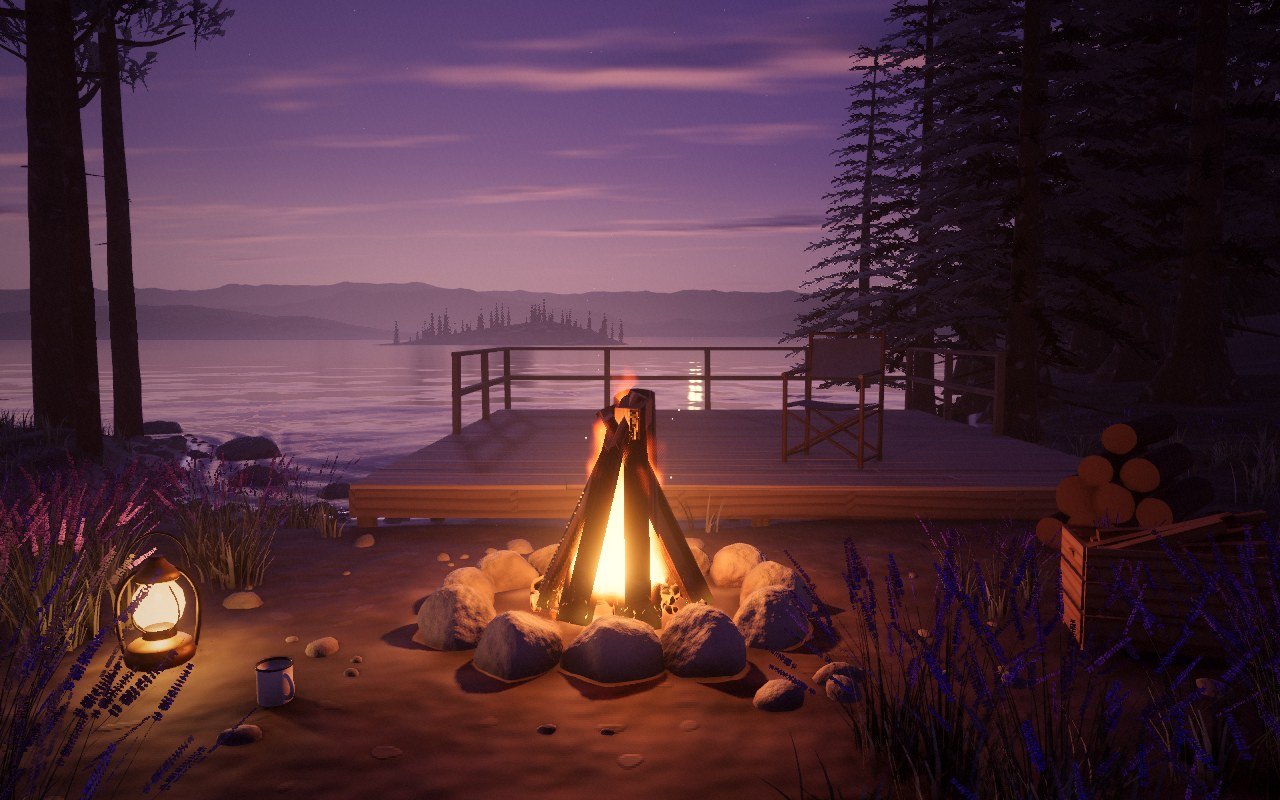
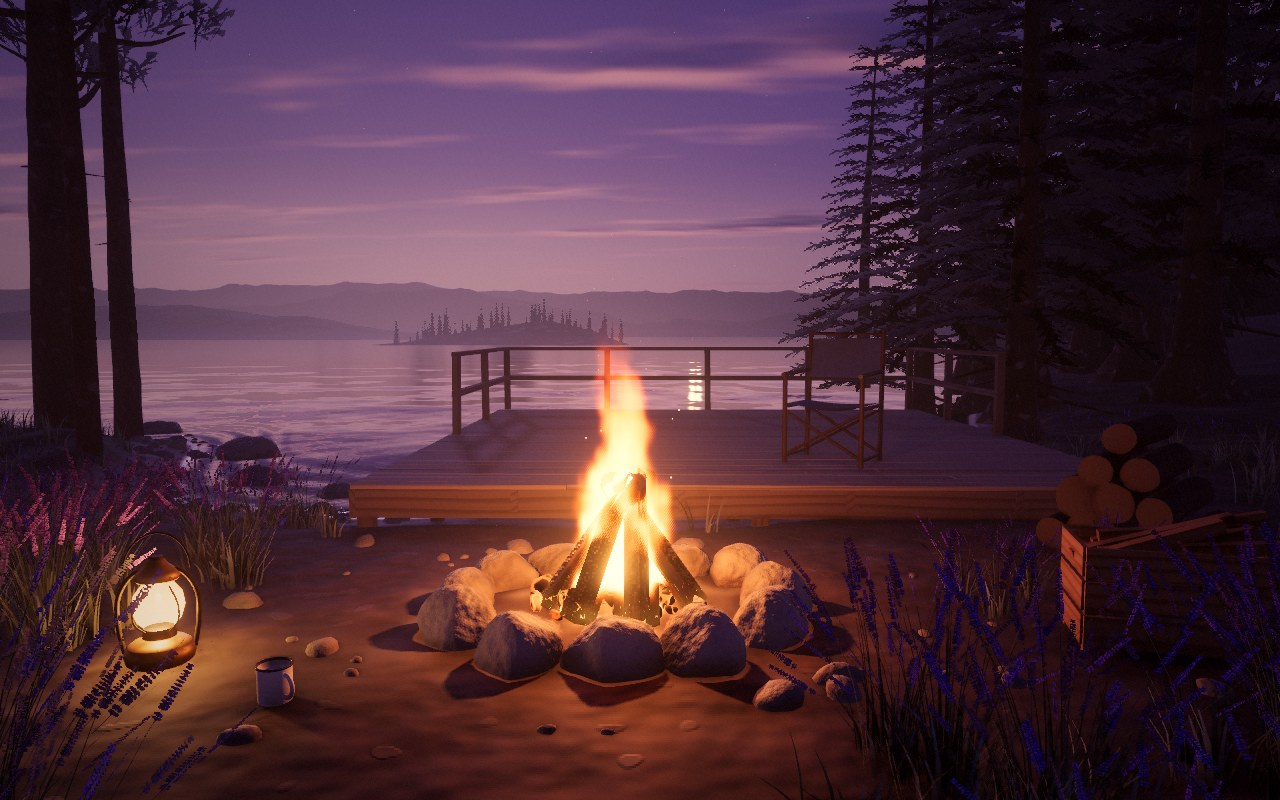
Let the campfire's flames rise above a low teepee
The teepee stood about a metre tall and hid the flame inside it, so the
fire read as a glowing tent. The logs now cross at half a metre and the
flame volume is taller, so tongues rise well above the wood as on the
card poster. The key light sits lower to match, and the stacked firewood
is a greyer, less orange timber.

Claude-Session: https://claude.ai/code/session_01VGKbtA9UtDn2W8JCtvG1sG

diff --git a/components/immersiveWorlds/nightFires/coastHearth.ts b/components/immersiveWorlds/nightFires/coastHearth.ts
@@ -114,17 +114,17 @@ float ctHeat = 0.0, ctCrack = 0.0;
 }`);
   };
   const occluders: FlameOccluder[] = [];
-  const apex = new THREE.Vector3(0.02, 0.8, -0.02);
+  const apex = new THREE.Vector3(0.02, 0.5, -0.02);
   const feet = 7;
   const wedges: THREE.BufferGeometry[] = [];
   for (let i = 0; i < feet; i++) {
     const angle = i / feet * tau + 0.35 + (random() - 0.5) * 0.25;
-    const footRadius = 0.36 + random() * 0.06;
+    const footRadius = 0.34 + random() * 0.05;
     const foot = new THREE.Vector3(Math.cos(angle) * footRadius, 0.04 + random() * 0.02, Math.sin(angle) * footRadius);
     const top = apex.clone().add(new THREE.Vector3((random() - 0.5) * 0.1, (random() - 0.5) * 0.08, (random() - 0.5) * 0.1));
     const direction = top.clone().sub(foot).normalize();
     // Run a little past the crossing, as stacked wood does.
-    const end = top.clone().addScaledVector(direction, 0.12 + random() * 0.1);
+    const end = top.clone().addScaledVector(direction, 0.07 + random() * 0.07);
     const length = foot.distanceTo(end);
     const R = 0.085 + random() * 0.03, open = 1.6 + random() * 0.6;
     const shape = new THREE.Shape();
@@ -167,7 +167,7 @@ float ctHeat = 0.0, ctCrack = 0.0;
   }
   group.add(logs);
 
-  const flame = createFlame({ noise: options.noise, height: 1.4, radius: 0.3, occluders, seed: 41, intensity: 1.05 });
+  const flame = createFlame({ noise: options.noise, height: 1.55, radius: 0.32, occluders, seed: 41, intensity: 1.05 });
   flame.mesh.position.y = 0.04;
   group.add(flame.mesh);
   for (const v of [...flame.uniforms.uCapA.value, ...flame.uniforms.uCapB.value]) v.y -= 0.04;
@@ -176,7 +176,7 @@ float ctHeat = 0.0, ctCrack = 0.0;
 
   const lightIntensity = options.lightIntensity ?? 10;
   const light = new THREE.PointLight('#ff9a52', lightIntensity, 0, 2);
-  light.position.set(0, 0.72, 0);
+  light.position.set(0, 0.62, 0);
   light.castShadow = true;
   light.shadow.mapSize.set(options.shadowMapSize ?? 1024, options.shadowMapSize ?? 1024);
   light.shadow.radius = 6;

diff --git a/components/immersiveWorlds/nightFires/coastProps.ts b/components/immersiveWorlds/nightFires/coastProps.ts
@@ -196,7 +196,7 @@ export function createLogPile() {
       parts.push(placed(g, V(x + (random() - 0.5) * 0.04, y - (0.11 - r) * 0.8, (random() - 0.5) * 0.16), new THREE.Euler(Math.PI / 2 + (random() - 0.5) * 0.04, (random() - 0.5) * 0.05, (random() - 0.5) * 0.05)));
     }
   });
-  const material = createWoodMaterial('#6a5440', { key: 'coast-log-pile', axis: 'y', localFrame: true, pith: [0.01, -0.02], bark: '#4a3b2e', rings: 95, figure: 0.65, pores: 0.25, wear: 0.4, bump: 1.4, roughness: 0.8 });
+  const material = createWoodMaterial('#5e5246', { key: 'coast-log-pile', axis: 'y', localFrame: true, pith: [0.01, -0.02], bark: '#4a3b2e', rings: 95, figure: 0.75, pores: 0.25, wear: 0.4, bump: 1.4, roughness: 0.8 });
   const pile = new THREE.Mesh(mergeGeometries(parts), material);
   parts.forEach((g) => g.dispose());
   pile.name = 'Stacked firewood';
